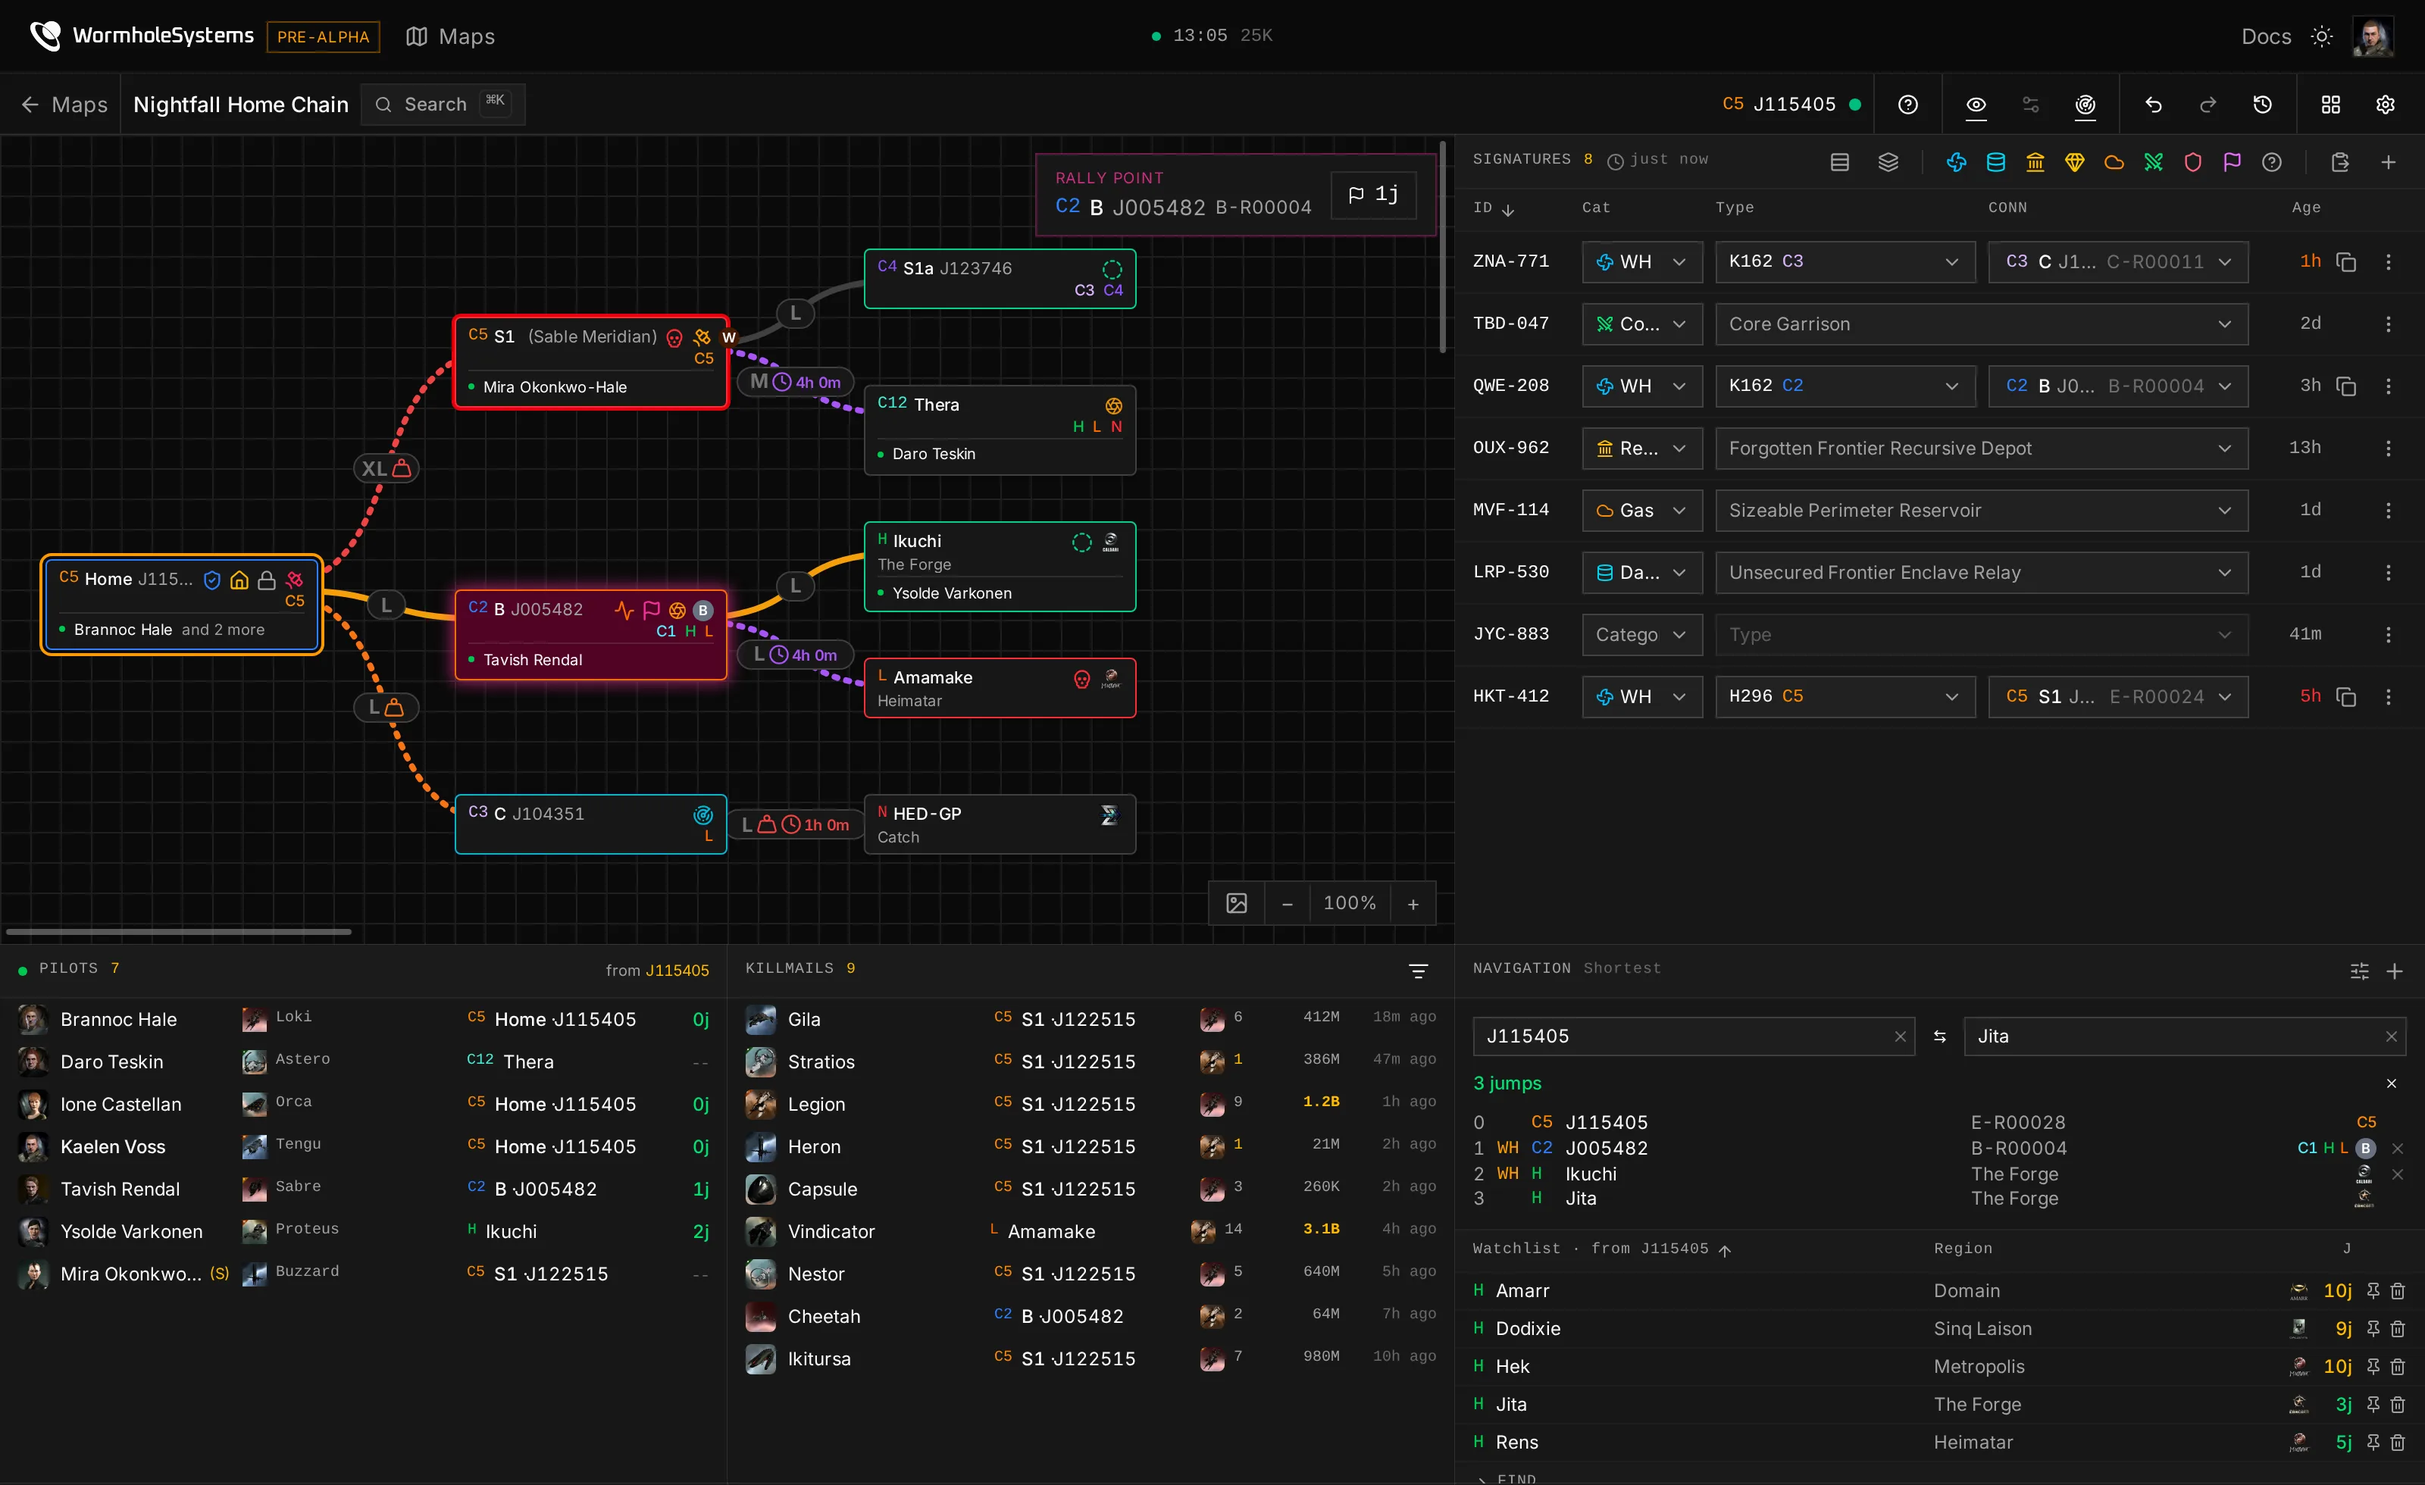
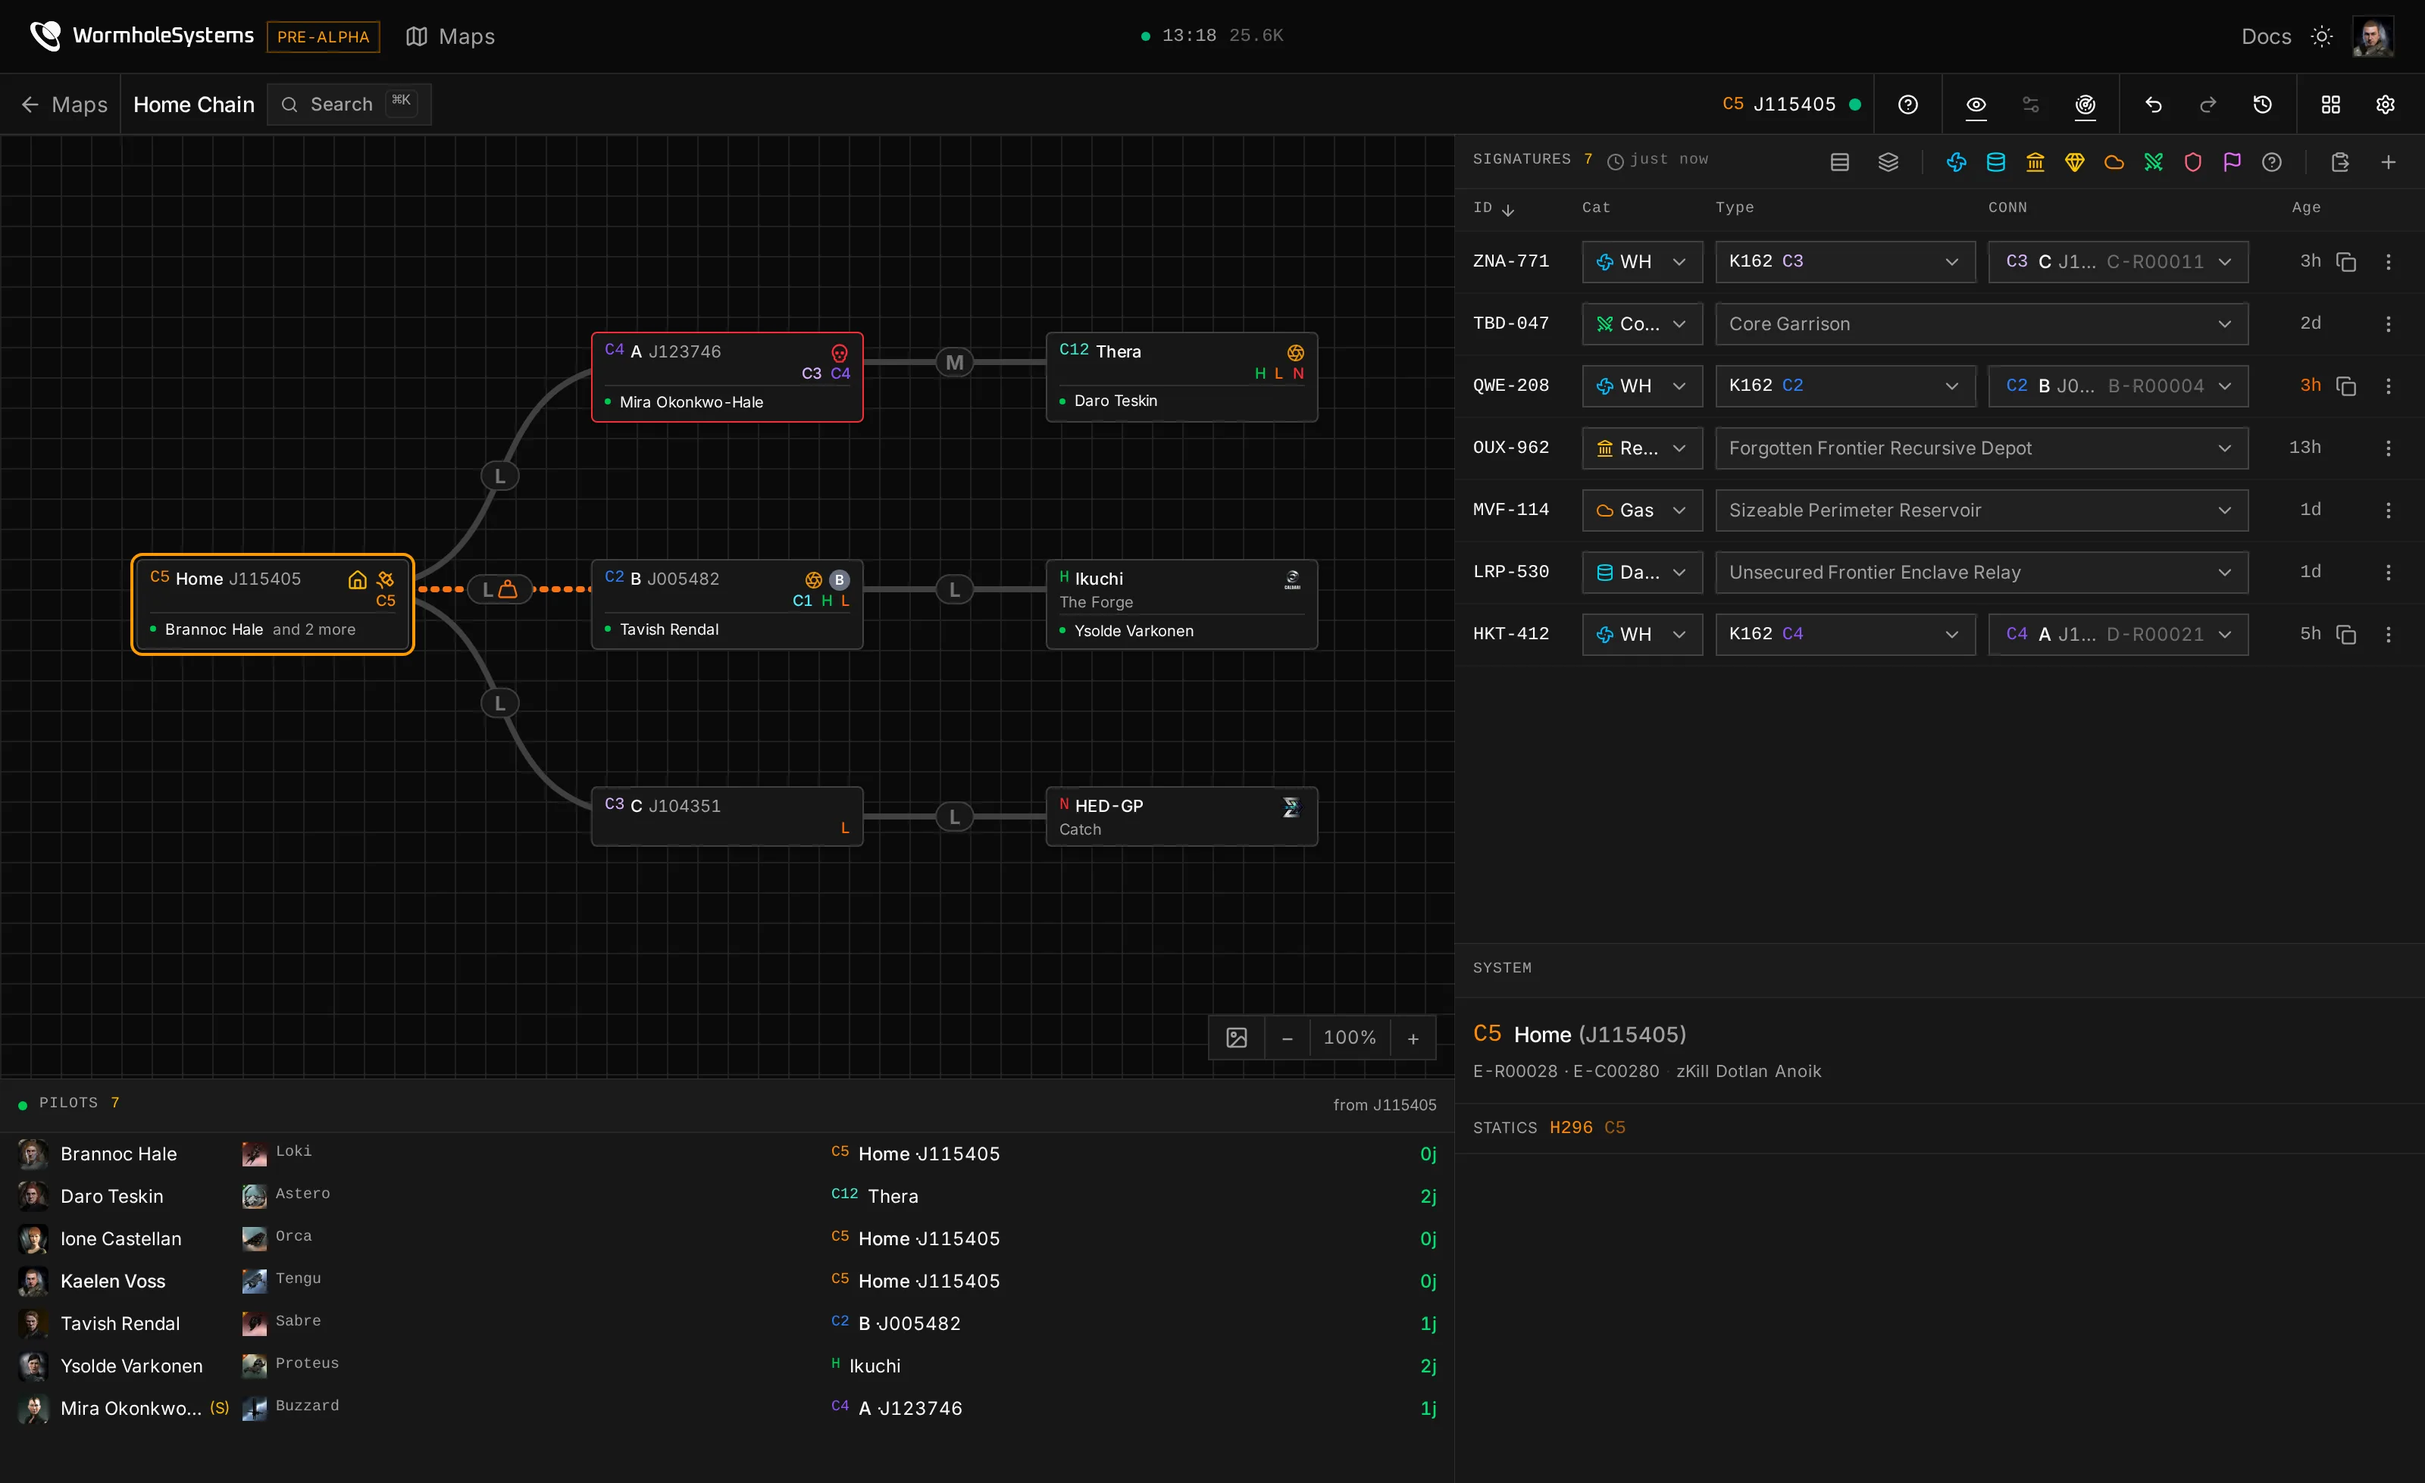
feat(landing): a calmer hero, framed as a floating window
The hero is shot from a quiet map of its own (seven systems, one hostile,
one reduced hole) with only the map, signatures, system and pilots, and
sits in a desktop-style window instead of leaning back. The screenshot
config now defaults to the e2e database itself.

diff --git a/frontend/e2e/screenshots/demo-map.ts b/frontend/e2e/screenshots/demo-map.ts
@@ -126,6 +126,8 @@ export interface Pilot {
 
 export interface DemoMap {
 	mapId: number;
+	/** The calm map the hero is taken from; the busy one above is for the feature shots. */
+	heroMapId: number;
 	viewer: Pilot;
 	pilots: Pilot[];
 	nodes: Record<keyof typeof SYS, number>;
@@ -403,7 +405,7 @@ export async function seedDemoMap(): Promise<DemoMap> {
 	});
 
 	await place(mapId, viewer, SYS.home, SHIP.tengu);
-	await place(mapId, scout, SYS.s1, SHIP.buzzard);
+	await place(mapId, scout, SYS.s1a, SHIP.buzzard);
 	await place(mapId, tackle, SYS.b, SHIP.sabre);
 	await place(mapId, hunter, SYS.ikuchi, SHIP.proteus);
 	await place(mapId, explorer, SYS.thera, SHIP.astero);
@@ -512,5 +514,95 @@ export async function seedDemoMap(): Promise<DemoMap> {
 		jdc_level: 5,
 	});
 
-	return { mapId, viewer, pilots, nodes, connections };
+	const heroMapId = await seedHeroMap(pilots);
+	return { mapId, heroMapId, viewer, pilots, nodes, connections };
+}
+
+/**
+ * A quiet evening for the hero: the same home and the same people, a tidy chain of seven
+ * with one hostile next door and one hole at reduced mass, and nothing else shouting. The
+ * busy map carries the states the feature shots are about. None of these systems is the
+ * one with seeded kills and a threat rating, so no ring shows up here either.
+ */
+async function seedHeroMap(pilots: Pilot[]): Promise<number> {
+	const [viewer] = pilots;
+	const api = viewer.api;
+	const mapId = await createMap(api, 'Home Chain');
+	for (const p of pilots.slice(1)) await grantAccess(mapId, p.characterId, 'member');
+	const post = async (path: string, data: object) =>
+		ok(await api.post(`/api/maps/${mapId}/${path}`, { data: { map_id: mapId, ...data } }), path);
+
+	const col = (n: number) => 90 + n * 300;
+	const home = await addSystem(api, mapId, SYS.home, { x: col(0), y: 280, alias: 'Home' });
+	const a = await addSystem(api, mapId, SYS.s1a, { x: col(1), y: 130, alias: 'A' });
+	const b = await addSystem(api, mapId, SYS.b, { x: col(1), y: 280, alias: 'B' });
+	const c = await addSystem(api, mapId, SYS.c, { x: col(1), y: 430, alias: 'C' });
+	const thera = await addSystem(api, mapId, SYS.thera, { x: col(2), y: 130 });
+	const ikuchi = await addSystem(api, mapId, SYS.ikuchi, { x: col(2), y: 280 });
+	const nullsec = await addSystem(api, mapId, SYS.nullsec, { x: col(2), y: 430 });
+
+	const link = (from: number, to: number, size: 'xl' | 'large' | 'medium') =>
+		connect(api, mapId, from, to, { size });
+	const homeA = await link(home, a, 'large');
+	const homeB = await link(home, b, 'large');
+	const homeC = await link(home, c, 'large');
+	await link(a, thera, 'medium');
+	await link(b, ikuchi, 'large');
+	await link(c, nullsec, 'large');
+	await post('connections/set-status', { connection_id: homeB, mass_status: 'reduced' });
+
+	await post('systems/set-home', { map_solar_system_id: home, value: true });
+	await post('systems/set-status', { map_solar_system_id: a, status: 'hostile' });
+
+	await post('signatures/paste', {
+		solar_system_id: SYS.home,
+		signatures: HOME_SIGNATURES.filter((s) => s.group !== 'unknown').map(({ id, group, name }) => ({
+			signature_id: id,
+			group,
+			name,
+		})),
+	});
+	const catalog: { types: { id: number; name: string }[] } = await (
+		await api.get('/api/signature-types')
+	).json();
+	const sigs: { id: number; signature_id: string }[] = await (
+		await api.get(`/api/maps/${mapId}/signatures`)
+	).json();
+	const typed: [string, string, number][] = [
+		['HKT-412', 'K162 - C4', homeA],
+		['QWE-208', 'K162 - C2', homeB],
+		['ZNA-771', 'K162 - C3', homeC],
+	];
+	for (const [code, type, connection_id] of typed) {
+		const signature_pk = sigs.find((s) => s.signature_id === code)!.id;
+		const signature_type_id = catalog.types.find((t) => t.name === type)!.id;
+		await post('signatures/update', { signature_pk, signature_type_id });
+		await post('signatures/link', { signature_pk, connection_id });
+	}
+
+	await withDb(async (db) => {
+		for (const s of HOME_SIGNATURES) {
+			await db.query(
+				`update signatures set created_at = now() - make_interval(mins => $3),
+				     updated_at = now() - make_interval(mins => $3)
+				 where map_id = $1 and signature_id = $2`,
+				[mapId, s.id, s.age],
+			);
+		}
+		await db.query(
+			`update map_connections set created_at = now() - interval '3 hours' where map_id = $1`,
+			[mapId],
+		);
+		// Everyone shares their position on this map too; where they are was set above.
+		for (const p of pilots) {
+			await db.query(
+				`insert into map_user_settings (map_id, user_id, tracking_allowed, introduction_confirmed_at)
+				 values ($1, $2, true, now())
+				 on conflict (map_id, user_id) do update set tracking_allowed = true,
+				     introduction_confirmed_at = now()`,
+				[mapId, p.userId],
+			);
+		}
+	});
+	return mapId;
 }

diff --git a/frontend/src/routes/+page.svelte b/frontend/src/routes/+page.svelte
@@ -93,36 +93,34 @@
 				</p>
 			</div>
 
-			<div class="mx-auto mt-14 w-full max-w-7xl px-4 pb-16 sm:mt-20 sm:px-6 sm:pb-24">
-				<div class="hero-tilt relative">
+			<div class="mx-auto mt-14 w-full max-w-7xl px-4 pb-20 sm:mt-20 sm:px-6 sm:pb-32">
+				<!-- The app as a window floating over the page, the way it sits on a desktop. -->
+				<div class="relative">
 					<div
-						class="hero-glow pointer-events-none absolute -inset-x-16 -top-24 bottom-1/3 -z-10"
+						class="hero-glow pointer-events-none absolute -inset-x-24 -top-20 bottom-1/4 -z-10"
 						aria-hidden="true"
 					></div>
-					<div
-						class="overflow-hidden border border-border bg-background shadow-2xl ring-1 shadow-black/15 ring-black/5 dark:shadow-black/60 dark:ring-white/5"
-					>
+					<div class="app-window overflow-hidden rounded-[11px] bg-background">
 						<div
-							class="flex h-7 items-center gap-3 border-b border-border bg-muted/40 px-3"
+							class="relative flex h-8 items-center border-b border-border bg-muted/60 px-3.5 sm:h-9"
 							aria-hidden="true"
 						>
-							<span class="flex gap-1.5">
-								<span class="size-2 bg-foreground/15"></span>
-								<span class="size-2 bg-foreground/15"></span>
-								<span class="size-2 bg-foreground/15"></span>
+							<span class="flex gap-2">
+								<span class="size-3 rounded-full bg-[#ff5f57]"></span>
+								<span class="size-3 rounded-full bg-[#febc2e]"></span>
+								<span class="size-3 rounded-full bg-[#28c840]"></span>
 							</span>
 							<span
-								class="flex-1 truncate text-center font-mono text-[10px] tracking-wider text-muted-foreground"
+								class="absolute inset-x-24 truncate text-center text-xs font-medium text-muted-foreground"
 							>
-								maps / nightfall home chain
+								Home Chain<span class="max-sm:hidden"> · WormholeSystems</span>
 							</span>
-							<span class="w-10"></span>
 						</div>
 						<Shot
 							name="app"
 							phoneWidth={760}
 							priority
-							alt="The map page: a chain of nine systems out of a C5 home, coloured by class and status, with a route to Jita highlighted. Beside it the signatures of the home system, the pilots and their ships, recent kills, and the route planner."
+							alt="The map page: a chain of seven systems out of a C5 home, one of them hostile, with the home system's signatures, its class and statics, and the pilots on the map in the ships they are flying."
 						/>
 					</div>
 				</div>
@@ -362,31 +360,31 @@
 	.hero-glow {
 		background: radial-gradient(
 			ellipse 50% 60% at 50% 40%,
-			color-mix(in oklab, var(--color-amber-500) 16%, transparent),
+			color-mix(in oklab, var(--color-amber-500) 9%, transparent),
 			transparent 70%
 		);
 		filter: blur(20px);
 	}
 
-	/* The screenshot leans back a little and straightens as it scrolls into place. Only where
-	   the browser can tie the animation to scrolling; elsewhere it simply sits flat. */
-	@media (prefers-reduced-motion: no-preference) {
-		@supports (animation-timeline: view()) {
-			.hero-tilt {
-				transform-origin: 50% 0;
-				animation: straighten linear both;
-				animation-timeline: view();
-				animation-range: entry 10% cover 45%;
-			}
-		}
+	/* A window on a desktop: a hairline edge with a lit top, and shadow in layers, tight
+	   under the edge and wide and soft beneath, so it reads as floating in either theme. */
+	.app-window {
+		box-shadow:
+			0 0 0 1px color-mix(in oklab, var(--foreground) 12%, transparent),
+			inset 0 1px 0 color-mix(in oklab, white 10%, transparent),
+			0 1px 2px rgb(0 0 0 / 0.06),
+			0 6px 12px -2px rgb(0 0 0 / 0.08),
+			0 24px 48px -12px rgb(0 0 0 / 0.18),
+			0 60px 120px -24px rgb(0 0 0 / 0.25);
 	}
 
-	@keyframes straighten {
-		from {
-			transform: perspective(1800px) rotateX(14deg) scale(0.96);
-		}
-		to {
-			transform: perspective(1800px) rotateX(0deg) scale(1);
-		}
+	:global(.dark) .app-window {
+		box-shadow:
+			0 0 0 1px color-mix(in oklab, white 12%, transparent),
+			inset 0 1px 0 color-mix(in oklab, white 8%, transparent),
+			0 1px 2px rgb(0 0 0 / 0.4),
+			0 8px 16px -4px rgb(0 0 0 / 0.45),
+			0 28px 56px -12px rgb(0 0 0 / 0.6),
+			0 70px 140px -24px rgb(0 0 0 / 0.7);
 	}
 </style>

diff --git a/frontend/e2e/screenshots/landing.shots.ts b/frontend/e2e/screenshots/landing.shots.ts
@@ -19,15 +19,13 @@ const desktop = (items: Item[]) => ({ lg: { cols: 10, row_height: 89, items } })
 // The whole window: the chain, and the panels somebody looks at all evening around it.
 // Ten rows of 89px fill a 1000px window under the two bars exactly.
 const HERO_LAYOUT = desktop([
-	item('map', 0, 0, 6, 6),
+	item('map', 0, 0, 6, 7),
+	item('characters', 0, 7, 6, 3),
 	item('signatures', 6, 0, 4, 6),
-	item('navigation', 6, 6, 4, 4),
-	item('characters', 0, 6, 3, 4),
-	item('killmails', 3, 6, 3, 4),
-	item('threat', 0, 10, 3, 3),
-	item('notes', 3, 10, 3, 3),
-	item('system-info', 6, 10, 4, 3),
+	item('system-info', 6, 6, 4, 4),
 ]);
+/** The hero keeps to the chain, its scans and its people; the rest is for the tour. */
+const HERO_HIDDEN = ['navigation', 'threat', 'notes', 'killmails', 'skyhooks', 'evescout'];
 
 // For the single-panel shots: each one sized to what it holds, in a taller window so none
 // of them has to scroll into view.
@@ -67,9 +65,9 @@ function emblem(color: string) {
 	</svg>`;
 }
 
-async function arrange(demo: DemoMap, layout: object) {
-	await demo.viewer.api.post(`/api/maps/${demo.mapId}/settings/user`, {
-		data: { layout_breakpoints: layout, hidden_panels: HIDDEN },
+async function arrange(demo: DemoMap, layout: object, hidden = HIDDEN, mapId = demo.mapId) {
+	await demo.viewer.api.post(`/api/maps/${mapId}/settings/user`, {
+		data: { layout_breakpoints: layout, hidden_panels: hidden },
 	});
 }
 
@@ -122,9 +120,9 @@ async function openMap(
 	browser: Browser,
 	demo: DemoMap,
 	theme: Theme,
-	{ system = SYS.home as number, viewport = WINDOW } = {},
+	{ system = SYS.home as number, viewport = WINDOW, mapId = demo.mapId } = {},
 ) {
-	const page = await open(browser, demo, theme, `/maps/${demo.mapId}?system=${system}`, viewport);
+	const page = await open(browser, demo, theme, `/maps/${mapId}?system=${system}`, viewport);
 	await page.waitForSelector('[data-testid="panel-grid"]');
 	await page.getByTestId('system-node').first().waitFor();
 	return page;
@@ -248,11 +246,10 @@ for (const theme of ['dark', 'light'] as const) {
 		});
 
 		test('app', async ({ browser }) => {
-			await arrange(demo, HERO_LAYOUT);
-			const page = await openMap(browser, demo, theme);
-			await planRoute(page);
+			await arrange(demo, HERO_LAYOUT, HERO_HIDDEN, demo.heroMapId);
+			const page = await openMap(browser, demo, theme, { mapId: demo.heroMapId });
 			await save(page, 'app', theme, [page.locator('body')], {
-				until: tile(page, 'navigation'),
+				until: tile(page, 'characters'),
 			});
 			await page.context().close();
 		});

diff --git a/frontend/playwright.screenshots.config.ts b/frontend/playwright.screenshots.config.ts
@@ -2,6 +2,10 @@ import { defineConfig } from '@playwright/test';
 
 import e2e from './playwright.config';
 
+// The demo is written straight into the tables as well as through the API, so both have to
+// be the e2e database, never the one a dev stack keeps its real maps in.
+process.env.DATABASE_URL ??= 'postgres://wormholesystems:wormholesystems@localhost:5432/ws_e2e';
+
 // `npm run screenshots`: the landing page's product shots, taken from a real map on the
 // same stack the e2e suite runs against. The shots are not tests and never run with the
 // suite; they only borrow its servers and its database.
